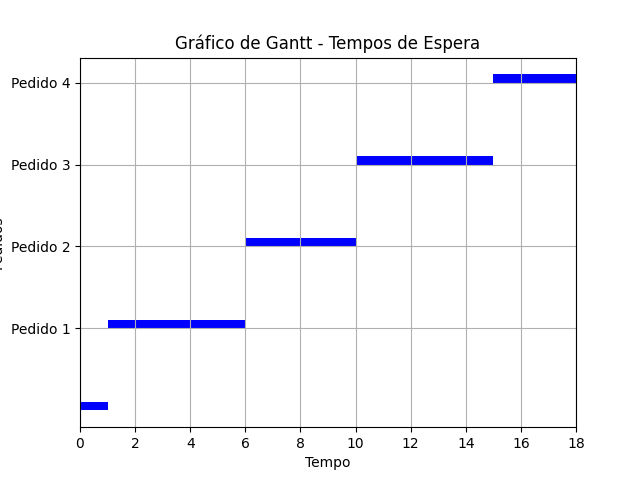
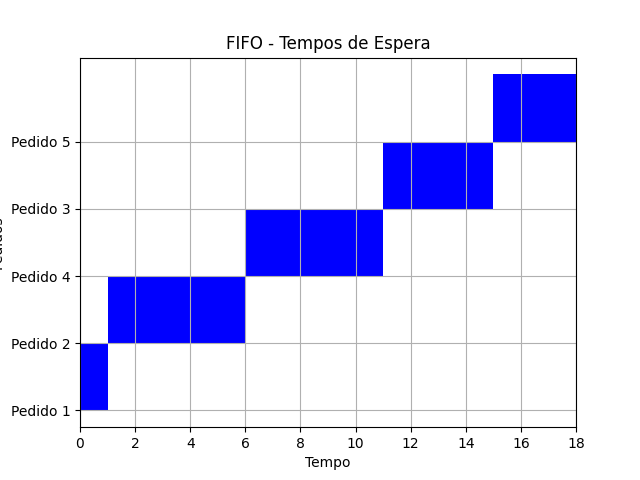
fix: corrigindo o gantt

diff --git a/fifo_modified.py b/fifo_modified.py
@@ -6,9 +6,9 @@ from queue import Queue
 
 import matplotlib.pyplot as plt
 
+ordem_preparo = []
 tempos_espera = []
 tempo_espera = 0
-ordem_preparo = []
 
 # Variáveis globais de ingredientes
 ingredientes = {'tomate': 5, 'queijo': 5, 'carne': 5}
@@ -114,21 +114,20 @@ def main():
     fig, gnt = plt.subplots()
     gnt.set_xlabel('Tempo')
     gnt.set_ylabel('Pedidos')
-    gnt.set_title('Gráfico de Gantt - Tempos de Espera')
+    gnt.set_title('FIFO - Tempos de Espera')
 
     # Definindo as barras do gráfico
     gnt.set_xlim(0, sum(tempos_preparo))
     gnt.grid(True)
 
-    print(ordem_preparo)
-    y_ticks = range(1, len(ordem_preparo) + 1)
+    y_ticks = range(len(ordem_preparo))
     gnt.set_yticks(y_ticks)
     gnt.set_yticklabels([f'Pedido {i}' for i in ordem_preparo])
 
     soma_tempo_espera = 0
     for i in range(len(ordem_preparo)):
-        soma_tempo_espera = soma_tempo_espera + tempos_espera[ordem_preparo[i] - 1]
-        gnt.broken_barh([(soma_tempo_espera, tempos_preparo[ordem_preparo[i] - 1])], (i, 0.1), facecolors='blue')
+        soma_tempo_espera = soma_tempo_espera + tempos_espera[i]
+        gnt.broken_barh([(soma_tempo_espera, tempos_preparo[ordem_preparo[i] - 1])], (i, 1), facecolors='blue')
 
     # Exibindo o gráfico
     plt.savefig("fifo_gantt.png")

diff --git a/sjf_modified.py b/sjf_modified.py
@@ -6,9 +6,9 @@ from queue import PriorityQueue
 
 from matplotlib import pyplot as plt
 
+ordem_preparo = []
 tempos_espera = []
 tempo_espera = 0
-ordem_preparo = []
 
 # Variáveis globais de ingredientes
 ingredientes = {'tomate': 5, 'queijo': 5, 'carne': 5}
@@ -114,20 +114,20 @@ def main():
     fig, gnt = plt.subplots()
     gnt.set_xlabel('Tempo')
     gnt.set_ylabel('Pedidos')
-    gnt.set_title('Gráfico de Gantt - Tempos de Espera')
+    gnt.set_title('SJF - Tempos de Espera')
 
     # Definindo as barras do gráfico
     gnt.set_xlim(0, sum(tempos_preparo))
     gnt.grid(True)
 
-    y_ticks = range(1, len(ordem_preparo) + 1)
+    y_ticks = range(len(ordem_preparo))
     gnt.set_yticks(y_ticks)
     gnt.set_yticklabels([f'Pedido {i}' for i in ordem_preparo])
 
     soma_tempo_espera = 0
     for i in range(len(ordem_preparo)):
-        soma_tempo_espera = soma_tempo_espera + tempos_espera[ordem_preparo[i] - 1]
-        gnt.broken_barh([(soma_tempo_espera, tempos_preparo[ordem_preparo[i] - 1])], (i, 0.1), facecolors='blue')
+        soma_tempo_espera = soma_tempo_espera + tempos_espera[i]
+        gnt.broken_barh([(soma_tempo_espera, tempos_preparo[ordem_preparo[i] - 1])], (i, 1), facecolors='blue')
 
     # Exibindo o gráfico
     plt.savefig("sjf_gantt.png")
